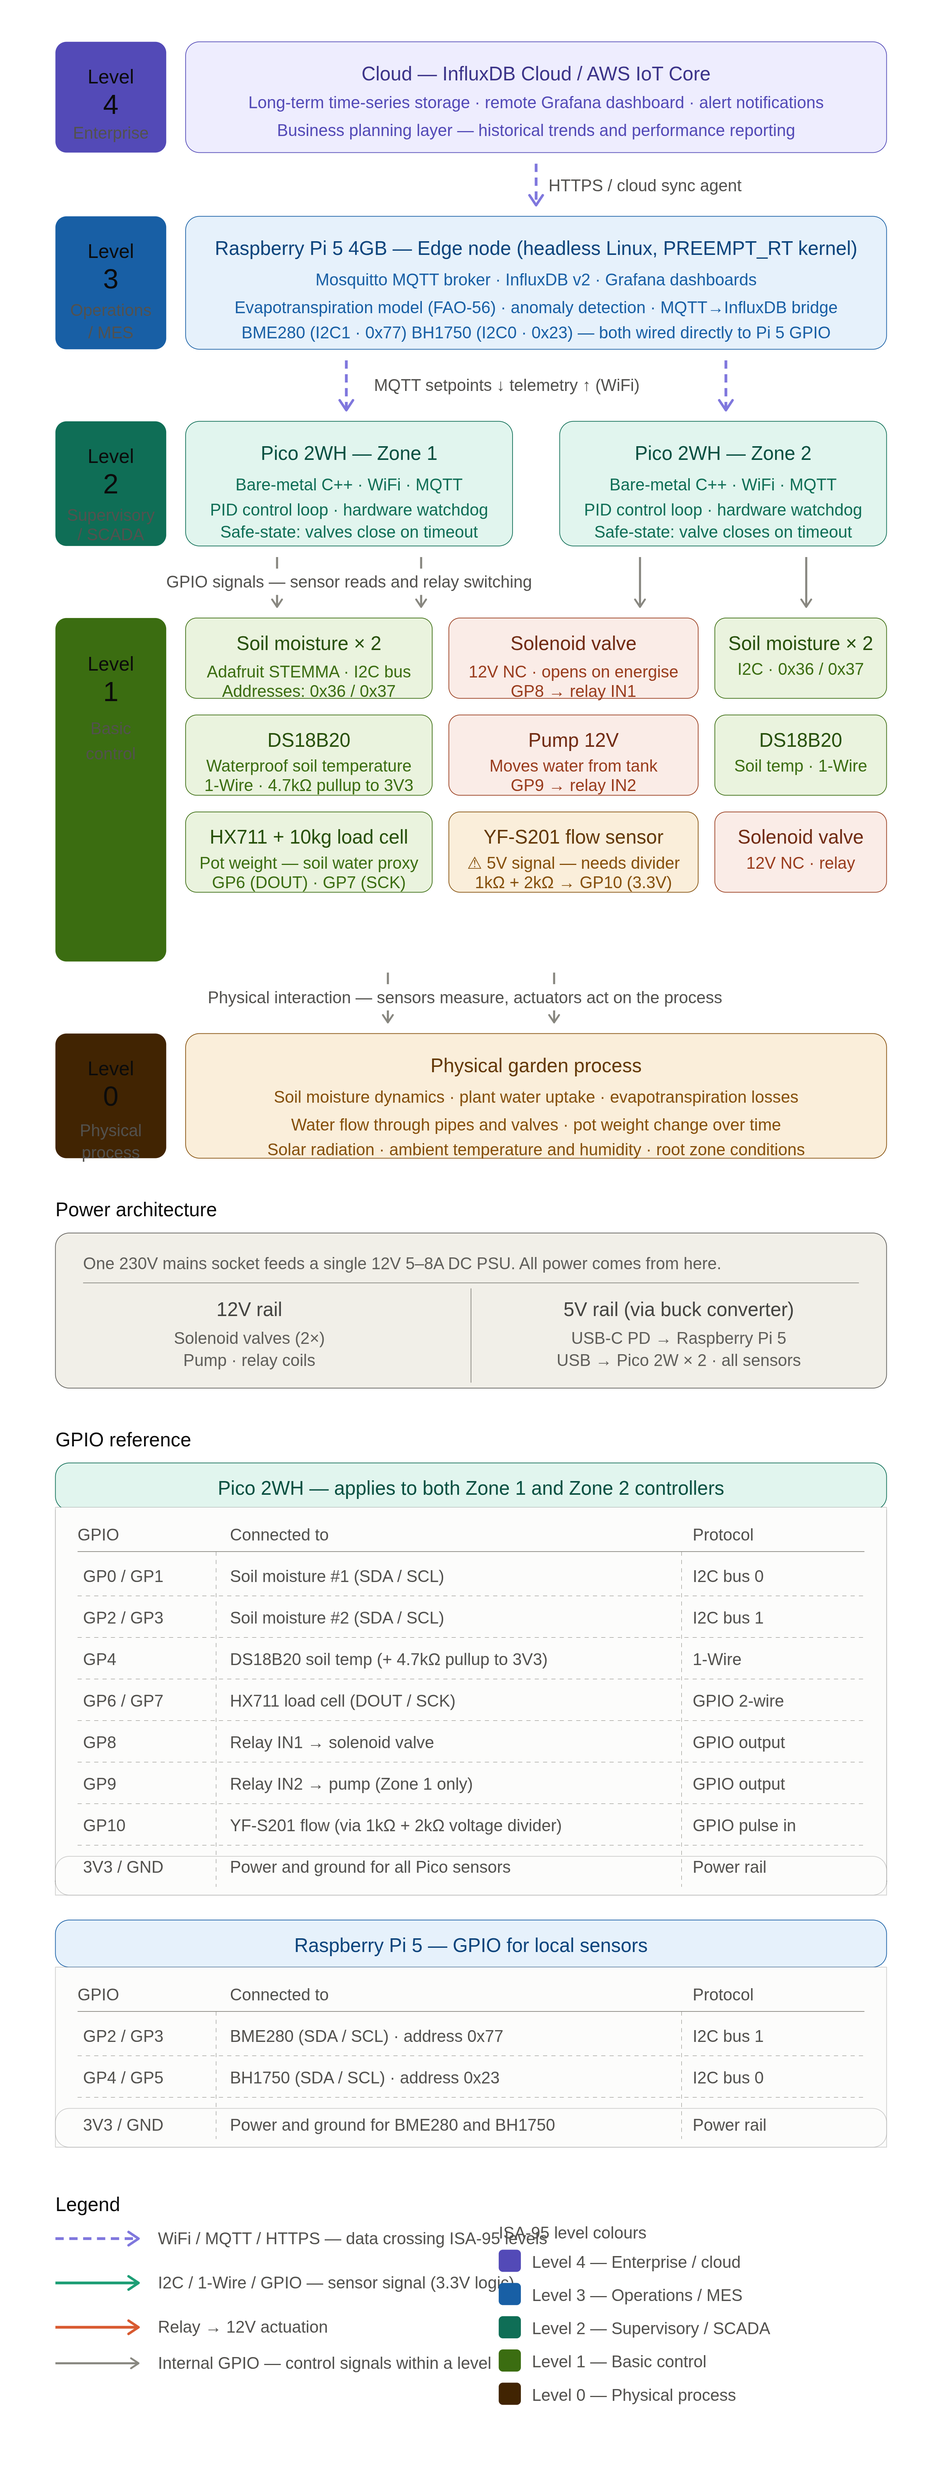
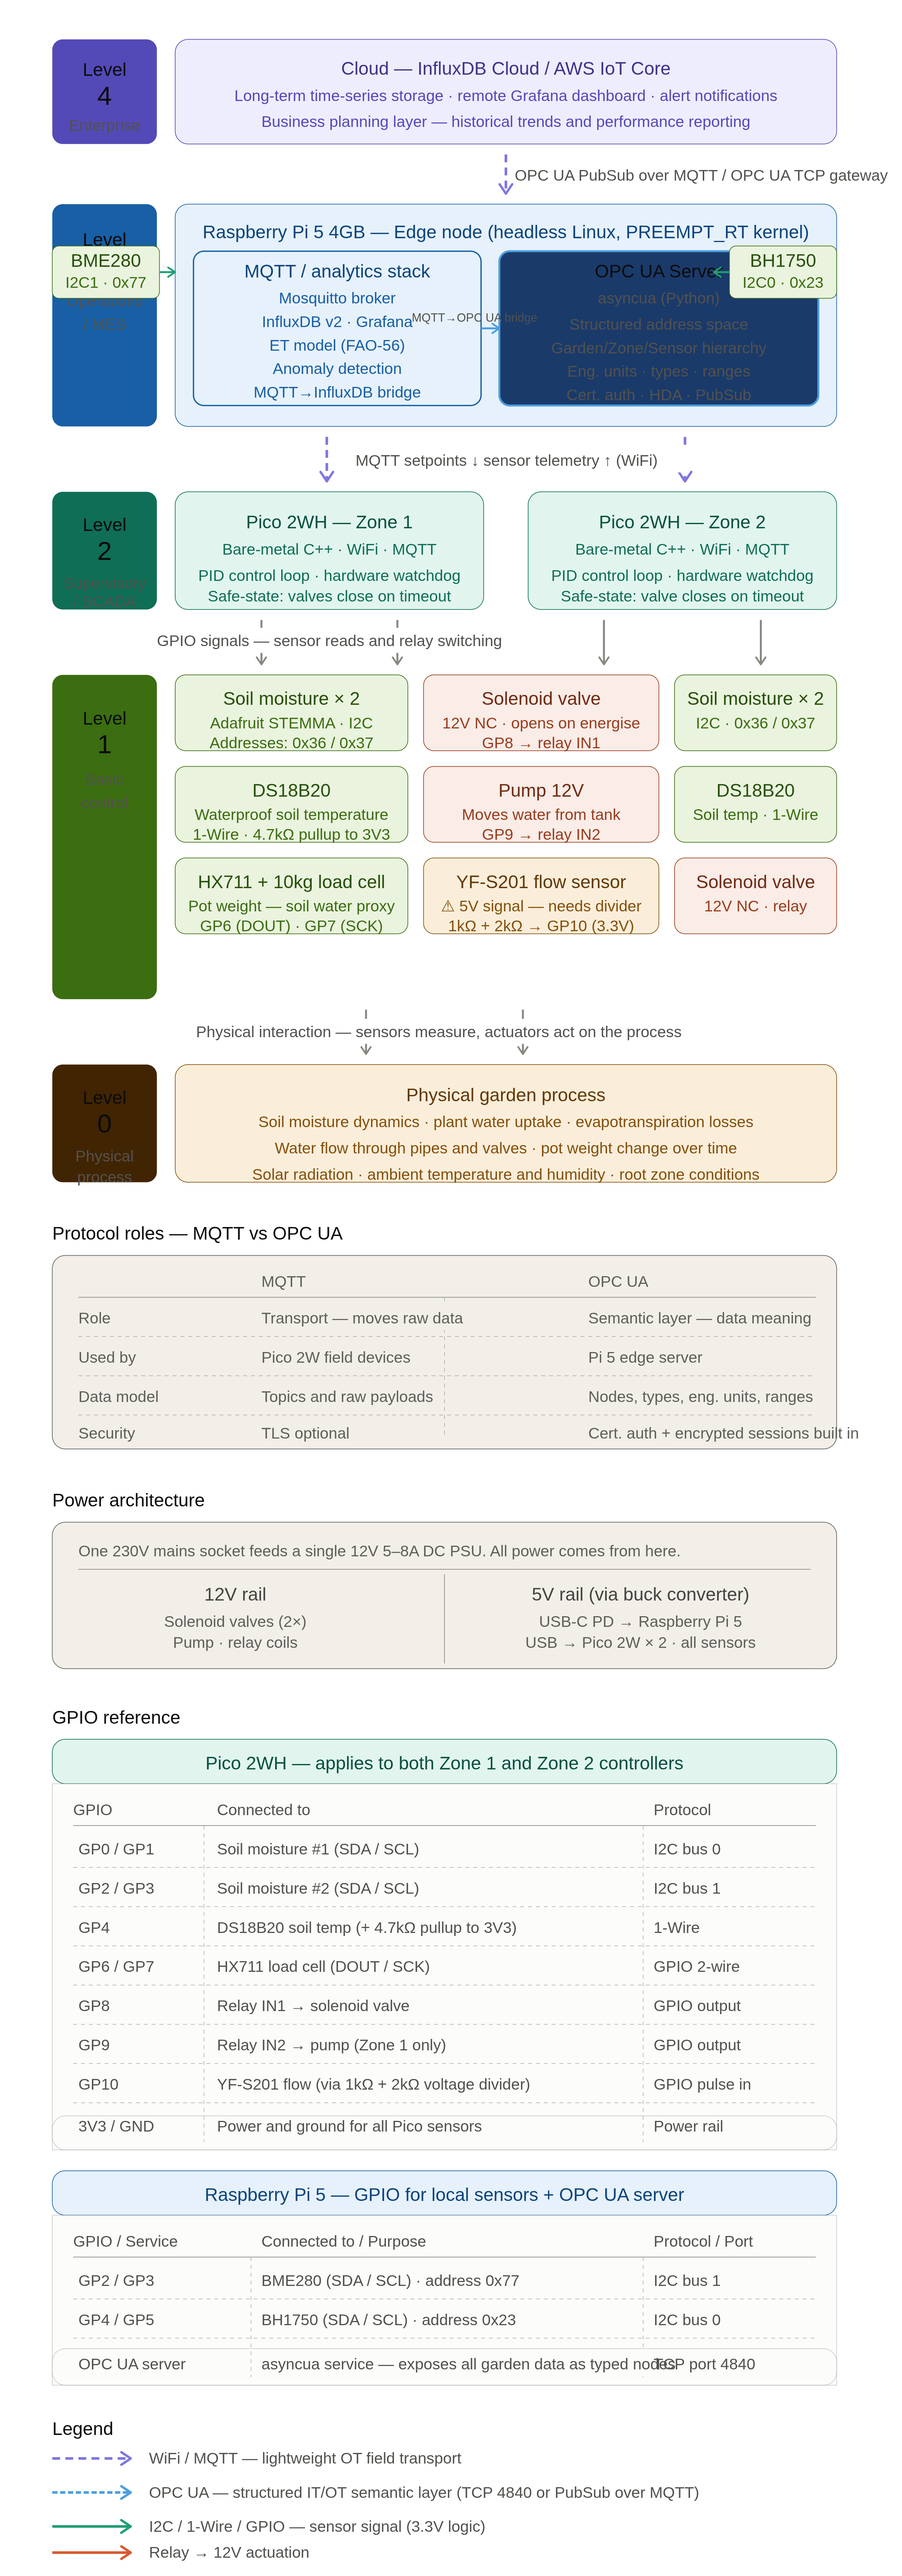
added OPC UA to the project - updated readme and wiring diagram to do so

diff --git a/README.md b/README.md
@@ -1,6 +1,6 @@
 # 🌱 Smart Garden — Autonomous Precision Irrigation & Monitoring System
 
-A full-stack IIoT project built as a deliberate learning platform for industrial automation, embedded C++, edge computing, and data-driven control. Every phase is built and understood before moving to the next.
+A full-stack IIoT project built as a deliberate learning platform for industrial automation, embedded C++, edge computing, OPC UA, and data-driven control. Every phase is built and understood before moving to the next.
 
 > **Status:** Hardware procurement in progress — Phase 1 not started
 
@@ -8,31 +8,95 @@ A full-stack IIoT project built as a deliberate learning platform for industrial
 
 ## What this is
 
-An autonomous garden irrigation system that uses closed-loop soil moisture control, a physics-based evapotranspiration (ET) model for feedforward prediction, and a full edge-to-cloud data stack. Built on the same architectural principles as industrial IIoT systems: field devices talk MQTT, an edge node aggregates and analyses, and cloud handles long-term storage and remote access.
+An autonomous garden irrigation system that uses closed-loop soil moisture control, a physics-based evapotranspiration (ET) model for feedforward prediction, and a full edge-to-cloud data stack. Built on the same architectural principles as industrial IIoT systems: field devices talk MQTT at the OT layer, an OPC UA server at the edge structures and exposes data to the IT layer, and cloud handles long-term storage and remote access.
 
 ---
 
-## System layers
+## System layers (ISA-95)
 
 ```
-FIELD LAYER (OT)
-  Pico 2W × 2 — bare-metal C++, real-time PID control
-  Sensors: soil moisture, temperature, load cell, flow, light
-  Actuators: solenoid valves, pump (via relay, 12V)
+ISA-95 Level 0 — Physical process
+  The garden itself: soil, plants, water, sunlight
 
-      ↕ WiFi / MQTT
+ISA-95 Level 1 — Basic control (field devices)
+  Sensors: soil moisture, temperature, load cell, flow, light, pressure
+  Actuators: solenoid valves, pump (12V via relay)
 
-EDGE LAYER (IT + OT)
-  Raspberry Pi 5 4GB — headless Linux, PREEMPT_RT kernel
-  Mosquitto (MQTT broker) · InfluxDB (time-series) · Grafana (dashboards)
-  Python: ET model, anomaly detection, cloud push agent
+      ↕ GPIO / I2C / 1-Wire
 
-      ↕ HTTPS
+ISA-95 Level 2 — Supervisory control (Pico 2W × 2)
+  Bare-metal C++, real-time PID control loops
+  Hardware watchdog — valves fail safe on timeout
 
-CLOUD LAYER (IT)
+      ↕ WiFi / MQTT (lightweight OT transport)
+
+ISA-95 Level 3 — Operations / MES (Raspberry Pi 5)
+  Mosquitto MQTT broker · InfluxDB · Grafana
+  OPC UA server (asyncua) — structured address space
+  ET evapotranspiration model · anomaly detection
+
+      ↕ OPC UA over MQTT (PubSub) / OPC UA TCP → cloud gateway
+
+ISA-95 Level 4 — Enterprise / cloud
   InfluxDB Cloud / AWS IoT Core
-  Long-term storage · remote dashboard · alerts
+  Long-term storage · remote dashboards · alerts
 ```
+
+---
+
+## Protocol architecture — why MQTT and OPC UA together
+
+These two protocols are complementary, not competing. They operate at different layers and serve different purposes:
+
+| | MQTT | OPC UA |
+|---|---|---|
+| **Role** | Transport — moves raw data efficiently | Semantic layer — defines what the data means |
+| **Used by** | Pico 2W field devices | Pi 5 edge server |
+| **Strength** | Lightweight, low-power, fire-and-forget | Structured, typed, secure, interoperable |
+| **Data model** | Topics and payloads (no inherent meaning) | Nodes, variables, namespaces, engineering units |
+| **Security** | Basic (TLS optional) | Certificate-based auth + encrypted sessions built in |
+| **Industrial role** | Field bus / sensor-to-edge | Edge-to-SCADA / edge-to-cloud standard |
+
+**Flow:** Pico → MQTT → Pi 5 (MQTT broker) → OPC UA server → cloud
+
+The OPC UA server on the Pi 5 subscribes to MQTT topics from the Picos, maps the raw values into a structured OPC UA address space, and exposes them to any OPC UA client — a laptop running UaExpert, a cloud gateway, or a SCADA system — without any bespoke integration work.
+
+---
+
+## OPC UA address space
+
+The OPC UA server organises all garden data into a typed, browsable hierarchy:
+
+```
+Garden/
+├── Zone1/
+│   ├── SoilMoisture/
+│   │   ├── Sensor1   [Float, %, 0–100, updated from MQTT]
+│   │   └── Sensor2   [Float, %, 0–100]
+│   ├── SoilTemperature   [Float, °C]
+│   ├── Weight/
+│   │   ├── Raw       [Float, kg]
+│   │   └── Delta     [Float, kg — change since last reading]
+│   ├── FlowRate      [Float, L/min]
+│   ├── Valve/
+│   │   └── State     [Boolean — open/closed]
+│   └── Control/
+│       ├── Setpoint  [Float, % — writable by OPC UA clients]
+│       └── Mode      [String — auto/manual/off]
+├── Zone2/
+│   └── [same structure minus load cell]
+└── Environment/
+    ├── Air/
+    │   ├── Temperature   [Float, °C]
+    │   ├── Humidity      [Float, %]
+    │   └── Pressure      [Float, hPa]
+    ├── Light/
+    │   └── Lux           [Float, lx]
+    └── ET/
+        └── DailyDemand   [Float, mm/day]
+```
+
+Each node carries metadata: datatype, engineering units, valid range, timestamp, and source (sensor or calculated). This is what OPC UA adds over raw MQTT topics — meaning, not just values.
 
 ---
 
@@ -42,7 +106,7 @@ CLOUD LAYER (IT)
 
 | Component | Role |
 |---|---|
-| Raspberry Pi 5 4GB | Edge gateway, all server-side software |
+| Raspberry Pi 5 4GB | Edge gateway, MQTT broker, OPC UA server, analytics |
 | Raspberry Pi Pico 2WH × 2 | Field controllers (C++ bare-metal, WiFi) |
 
 ### Sensors
@@ -106,8 +170,6 @@ Single mains socket → one 12V PSU → everything:
 
 ### Voltage divider — YF-S201 (5V → 3.3V)
 
-YF-S201 outputs 5V pulses; Pico GPIO is 3.3V max. Solution:
-
 ```
 YF-S201 signal (5V)
       |
@@ -128,18 +190,16 @@ Output = 5V × (2k / 3k) = 3.33V ✅
 
 ### Evapotranspiration (ET) — feedforward
 
-A simplified FAO-56 Penman-Monteith model runs daily on the Pi 5. It pulls weather data from the free Open-Meteo API (no key needed) and predicts how much water each zone will need based on temperature, humidity, solar radiation, and wind speed. Each zone has a configurable crop coefficient (Kc) that scales the demand to the specific plant type.
+A simplified FAO-56 Penman-Monteith model runs daily on the Pi 5, pulling weather data from the free Open-Meteo API. Each zone has a configurable crop coefficient (Kc):
 
 ```
 Zone 1 (Tomatoes): Kc = 1.15
 Zone 2 (Herbs):    Kc = 0.70
 ```
 
-This becomes the **feedforward** component — the system anticipates water demand rather than purely reacting to dry soil.
-
 ### PID — feedback correction
 
-A PID controller runs on each Pico 2W at a fixed cycle time (default 60s). It reads soil moisture, computes the error from the setpoint, and drives the valve open for a calculated number of seconds. This corrects for everything the ET model doesn't capture: soil type variation, root depth, microclimatic differences.
+A PID controller on each Pico 2W corrects for model error at a fixed cycle time (default 60s):
 
 ```
 Error  = target_moisture − measured_moisture
@@ -149,28 +209,27 @@ Output = Kp×error + Ki×∫error + Kd×d(error)/dt
 
 ### Watchdog
 
-The Pico 2W includes a hardware watchdog that closes valves and shuts off the pump if it stops receiving heartbeats from the Pi 5. Valves fail to their safe state (normally closed) without any software intervention. This mirrors real industrial practice.
+Hardware watchdog on each Pico 2W closes valves and stops the pump if the Pi 5 heartbeat is lost. Valves fail to normally-closed (safe state) without software intervention.
 
 ---
 
 ## MQTT topic structure
 
-All field data flows through Mosquitto on the Pi 5:
-
 ```
-garden/zone1/soil/moisture1     → float (%)
-garden/zone1/soil/temperature   → float (°C)
-garden/zone1/weight/raw         → float (kg)
-garden/zone1/valve/state        → "open" / "closed"
-garden/zone1/system/heartbeat   → unix timestamp
-garden/zone2/flow/rate          → float (L/min)
-garden/environment/air/temp     → float (°C)
-garden/environment/light/lux    → float (lx)
+garden/zone1/soil/moisture1        → float (%)
+garden/zone1/soil/temperature      → float (°C)
+garden/zone1/weight/raw            → float (kg)
+garden/zone1/valve/state           → "open" / "closed"
+garden/zone1/flow/rate             → float (L/min)
+garden/zone1/system/heartbeat      → unix timestamp
+garden/zone2/soil/moisture1        → float (%)
+garden/environment/air/temp        → float (°C)
+garden/environment/light/lux       → float (lx)
 garden/environment/et/daily_demand → float (mm/day)
 
-Pi 5 → Pico:
-garden/zone1/control/setpoint   → float (target moisture %)
-garden/zone1/control/mode       → "auto" / "manual" / "off"
+Pi 5 → Pico (control):
+garden/zone1/control/setpoint      → float (target moisture %)
+garden/zone1/control/mode          → "auto" / "manual" / "off"
 ```
 
 ---
@@ -194,7 +253,7 @@ Build and tune the core control logic.
 - [ ] Implement hardware watchdog (fail-safe close)
 - [ ] Tune PID gains on a real pot of soil
 
-### Phase 3 — Networking (weeks 8–12)
+### Phase 3 — MQTT networking (weeks 8–12)
 Connect field devices to the edge.
 - [ ] Connect Pico 2W to WiFi in C++
 - [ ] Publish sensor data via MQTT
@@ -208,14 +267,26 @@ Full local monitoring stack.
 - [ ] Read BME280 + BH1750 on Pi 5 GPIO
 - [ ] ET model running daily, setpoints pushed to Picos via MQTT
 
-### Phase 5 — Cloud + anomaly detection (weeks 16–24)
+### Phase 5 — OPC UA server (weeks 16–22)
+Add industrial-standard data layer at the edge.
+- [ ] Install asyncua library on Pi 5 (`pip install asyncua`)
+- [ ] Build OPC UA server with structured address space (Garden/Zone1/... hierarchy)
+- [ ] Bridge MQTT subscriber → OPC UA node updates in Python
+- [ ] Connect UaExpert client from laptop — browse and verify address space
+- [ ] Add engineering units, valid ranges, and timestamps to all nodes
+- [ ] Make control setpoints writable via OPC UA (not just MQTT)
+- [ ] Add Historical Data Access (HDA) — expose InfluxDB data via OPC UA history
+- [ ] Configure OPC UA security — certificate-based auth and encrypted sessions
+- [ ] Publish to cloud via OPC UA PubSub over MQTT transport
+
+### Phase 6 — Cloud + anomaly detection (weeks 22–28)
 Extend to cloud, add ML layer.
 - [ ] Cloud push agent (InfluxDB Cloud or AWS IoT free tier)
 - [ ] Autoencoder anomaly detector on sensor time-series
 - [ ] Grafana alerts (anomaly flag, water delivery mismatch)
 - [ ] Validate YF-S201 flow measurement against ET model prediction
 
-### Phase 6 — Hardening (ongoing)
+### Phase 7 — Hardening (ongoing)
 Make it robust enough to leave running.
 - [ ] PREEMPT_RT kernel on Pi 5
 - [ ] Weatherproof enclosure (IP65+, cable glands)
@@ -231,7 +302,7 @@ Make it robust enough to leave running.
 smart-garden/
 ├── README.md
 ├── docs/
-│   ├── wiring/          Detailed wiring diagrams
+│   ├── wiring/          Wiring diagrams (ISA-95 architecture)
 │   ├── calibration/     Sensor calibration procedures
 │   ├── commissioning/   Pi 5 and Pico toolchain setup guides
 │   └── build-log.md     Running notes as the project develops
@@ -240,7 +311,7 @@ smart-garden/
 ├── firmware/
 │   └── pico_zone_controller/   C++ firmware (built phase by phase)
 ├── edge/
-│   └── scripts/         Python: ET model, MQTT bridge, anomaly detection
+│   └── scripts/         Python: ET model, MQTT bridge, OPC UA server, anomaly detection
 ├── analytics/
 │   └── notebooks/       Jupyter notebooks for exploration
 └── cloud/               Cloud configuration
@@ -254,9 +325,10 @@ smart-garden/
 |---|---|
 | C++ on embedded hardware | Pico SDK, bare-metal, no OS, real memory management |
 | Real-time control | PID loop on RP2350, deterministic timing, hardware watchdog |
-| Industrial comms | MQTT field→edge, I2C, 1-Wire, GPIO pulse |
+| Industrial field protocols | MQTT, I2C, 1-Wire, GPIO pulse — OT layer communication |
+| OPC UA | Server setup, address space design, security, HDA, PubSub — IT/OT bridge standard |
 | Physics-based modelling | ET model with parameterisable Kc — same pattern as pump/membrane modelling |
-| Edge-to-cloud architecture | OT (Pico) → IT (Pi 5) → Cloud — mirrors industrial IIoT stack |
+| Edge-to-cloud architecture | OT (Pico/MQTT) → OPC UA (Pi 5) → Cloud — real industrial IIoT stack |
 | Time-series analytics | InfluxDB, Grafana, anomaly detection on live sensor data |
 | MLOps at edge | Autoencoder trained on sensor streams, inference on Pi 5 |
 | Agile delivery | Phased build — each phase is a working, testable system |
